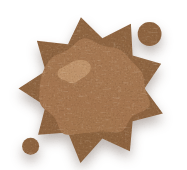
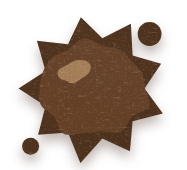
המרפאה: בוץ כהה יותר, שייראה גם על עור כהה
Claude-Session: https://claude.ai/code/session_01JyFWozgcPjQj5xLDKwaoM7

diff --git a/assets-src/images-b-clinic/tools/gen_clinic4.py b/assets-src/images-b-clinic/tools/gen_clinic4.py
@@ -76,8 +76,9 @@ def gnat():
 def mud():
     """110x100: a splat of brown mud (the sponge foams it)."""
     p = "omu-"
-    s = P(spiky(55, 52, 30, 44, 0, 360, 9, 7), "#8E6440") + P(wob(55, 52, 32, 28, .1, 8, 18), "#A47650")
-    s += P(wob(44, 42, 10, 6, .12, 9, 10, -20), "#C49A70", ' opacity="0.8"') + C(88, 20, 7, "#8E6440") + C(18, 86, 5, "#8E6440")
+    # (dark enough to read on Leo's dark skin too, with a lighter wet shine on it)
+    s = P(spiky(55, 52, 30, 44, 0, 360, 9, 7), "#4E321D") + P(wob(55, 52, 32, 28, .1, 8, 18), "#654128")
+    s += P(wob(44, 42, 10, 6, .12, 9, 10, -20), "#B08A62", ' opacity="0.85"') + C(88, 20, 7, "#4E321D") + C(18, 86, 5, "#4E321D")
     return doc(p, 110, 100, G(s, p + "sh"), "smooth", seed=414)
 
 
